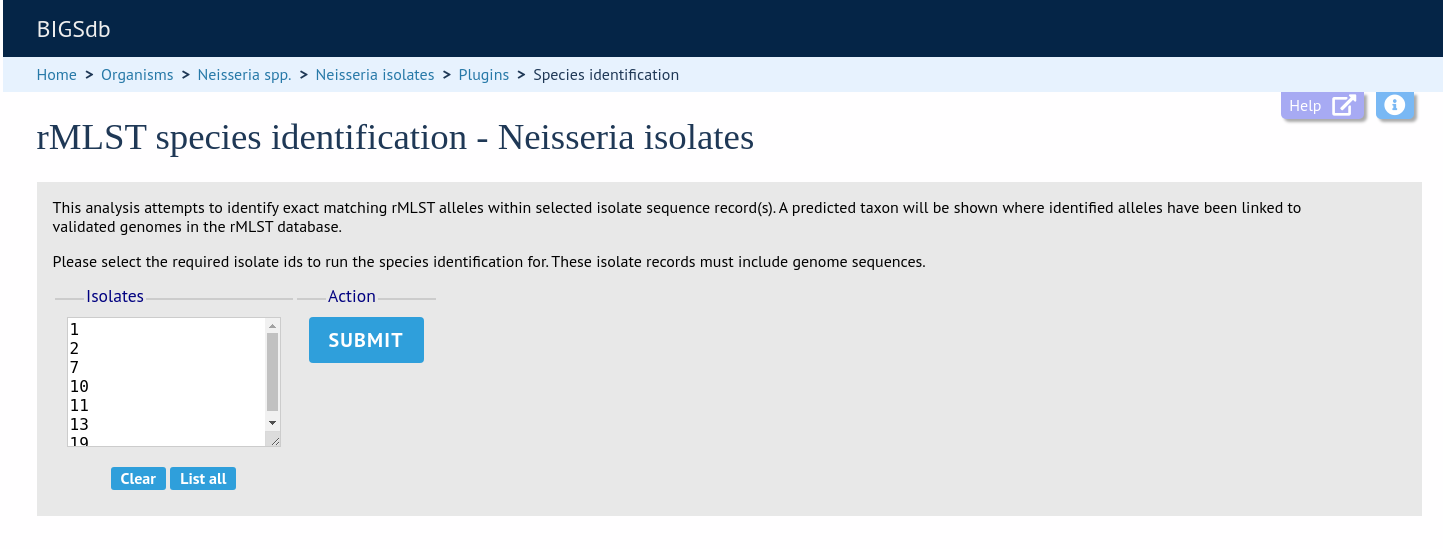
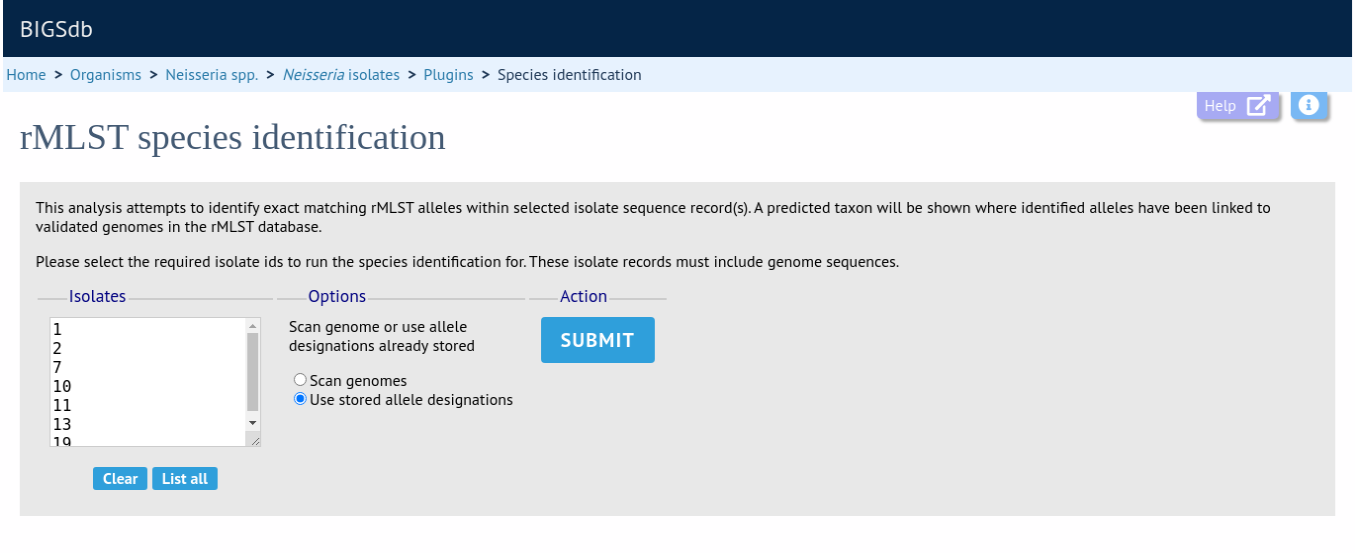
Document new rMLST designation search.

diff --git a/data_analysis/rMLST.rst b/data_analysis/rMLST.rst
@@ -35,8 +35,14 @@ the isolate has a genome assembly associated with it.
 
 .. image:: /images/data_analysis/rmlst3.png
 
-The tool interface is simply a list of isolate ids to check. This will be pre-
-populated if accessed following a query or directly from an isolate record. 
+The tool interface consists of a list of isolate ids to check. This will be
+pre-populated if accessed following a query or directly from an isolate record. 
+If the rMLST scheme is defined on the system, you will have a choice as to 
+whether to BLAST the genome sequences to identify the rMLST alleles, or just
+use the designations that are tagged in the database. The latter is much 
+quicker but relies on the record having been scanned and annotated with the
+rMLST loci.
+
 Click 'Submit'.
 
 .. image:: /images/data_analysis/rmlst4.png
